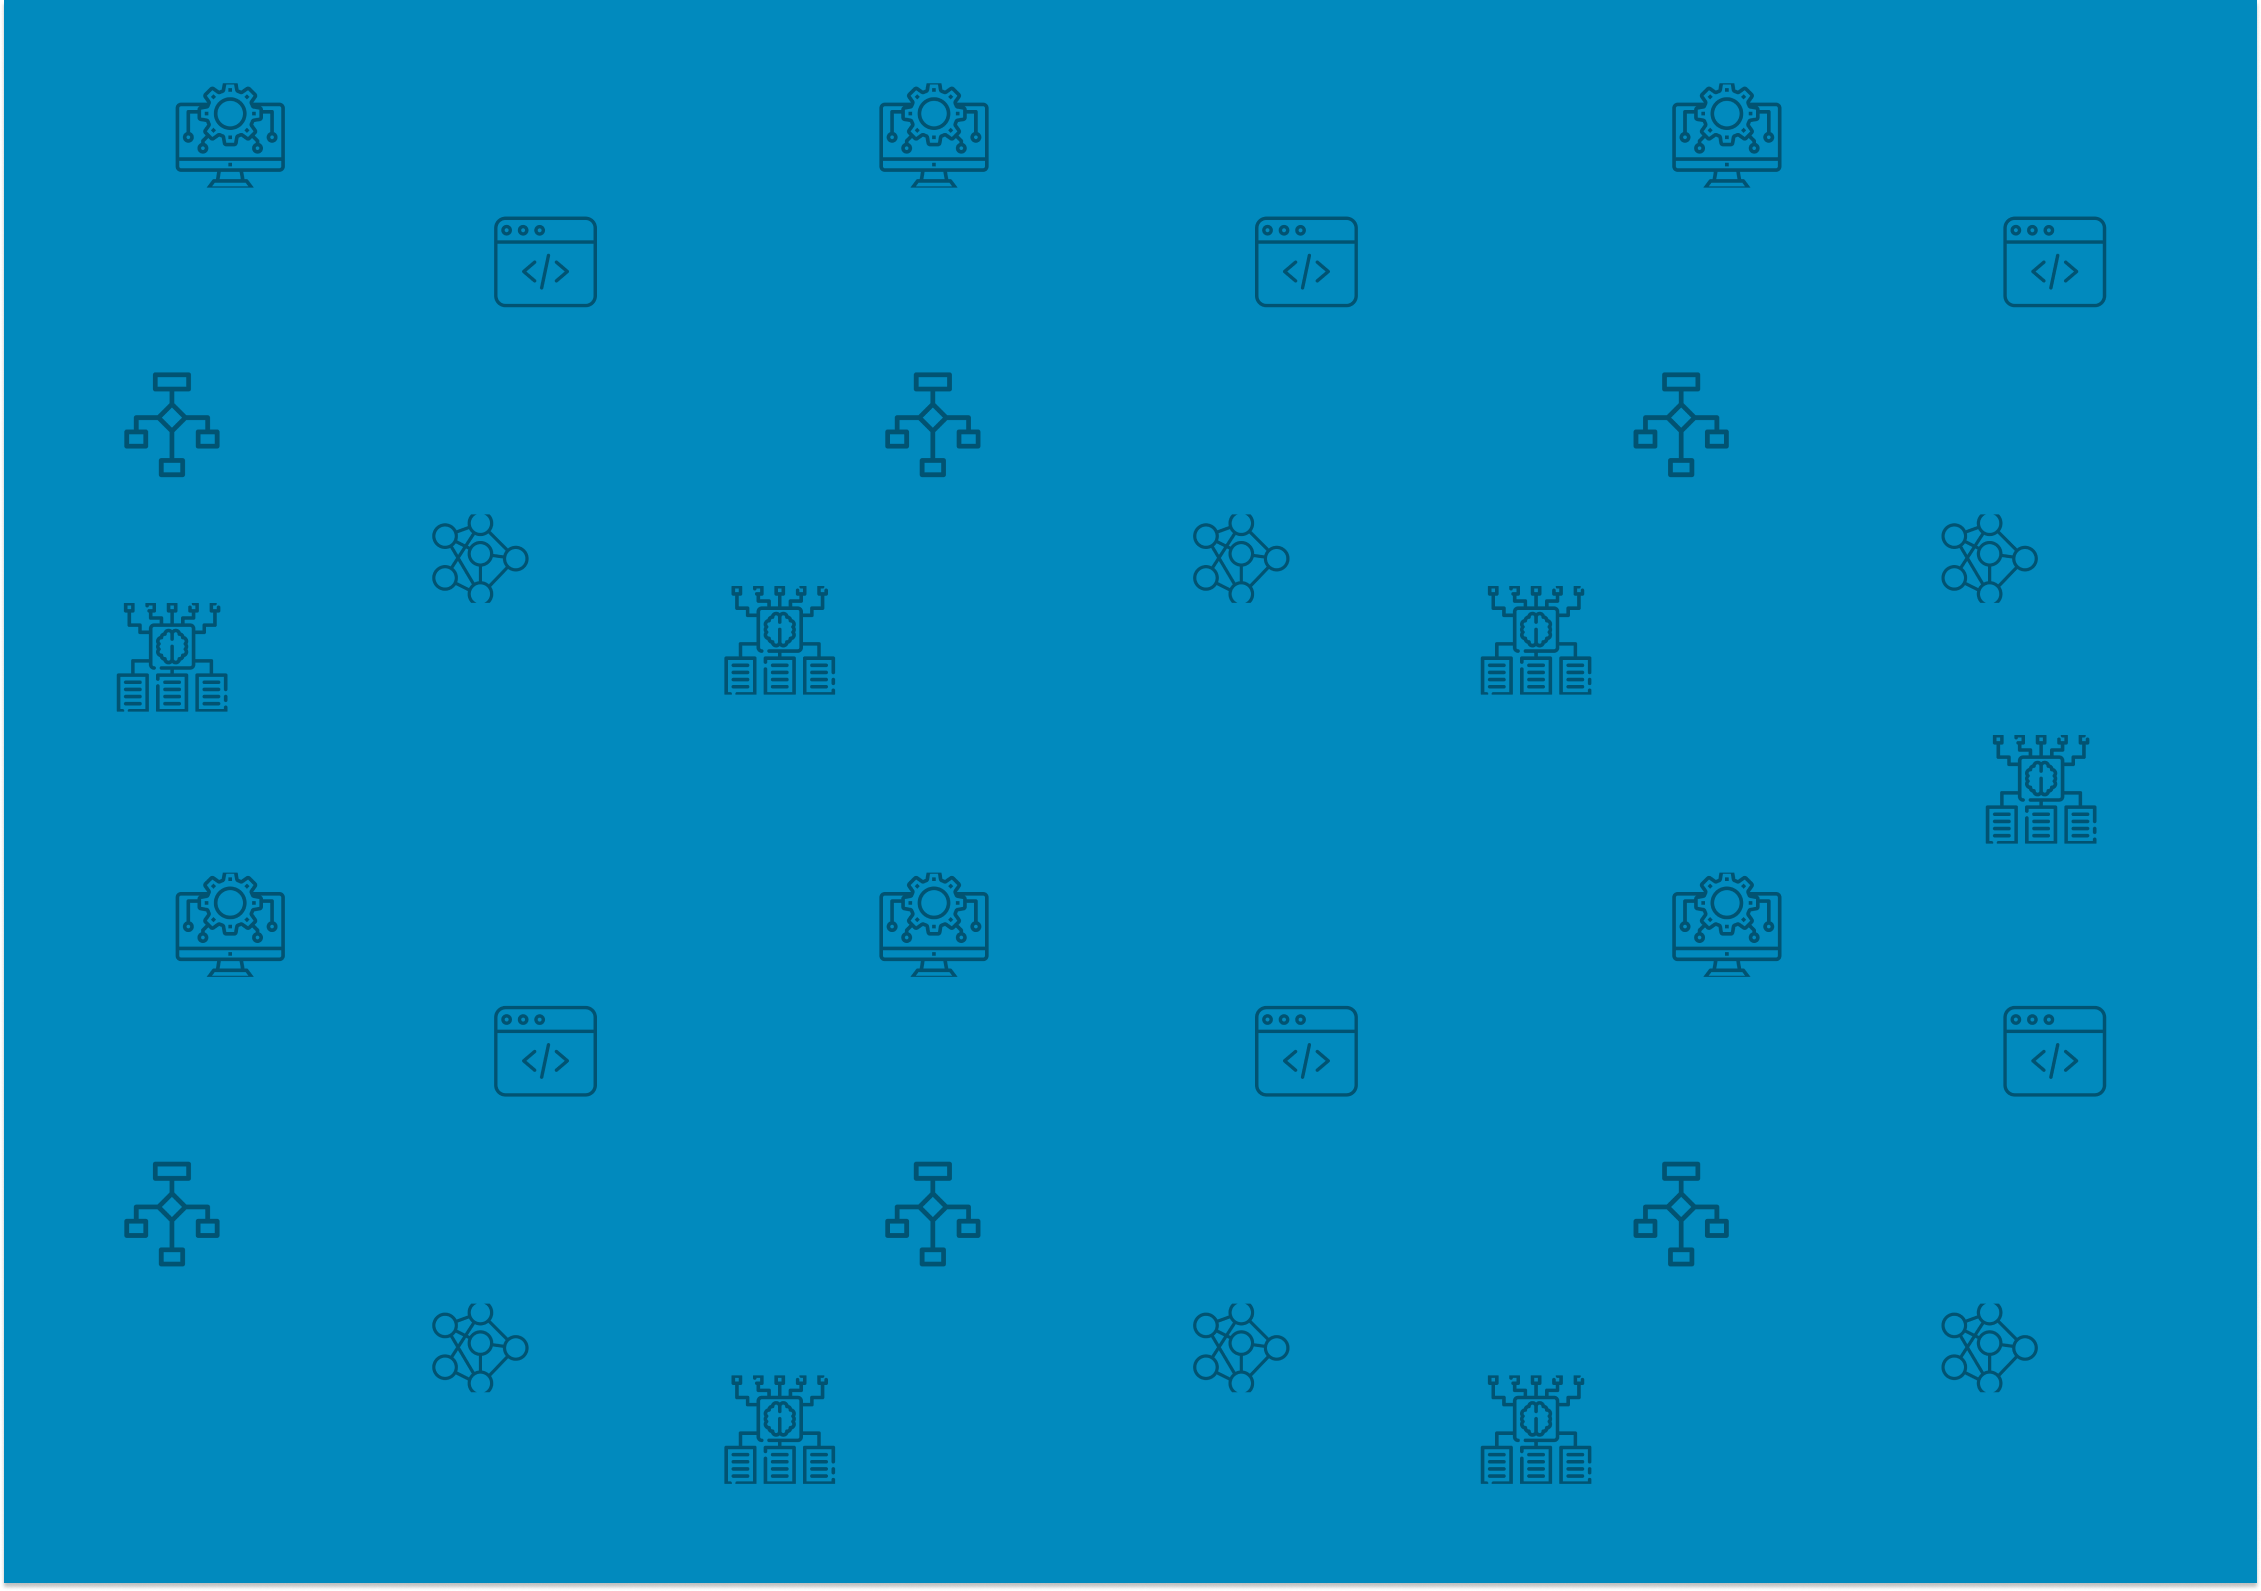
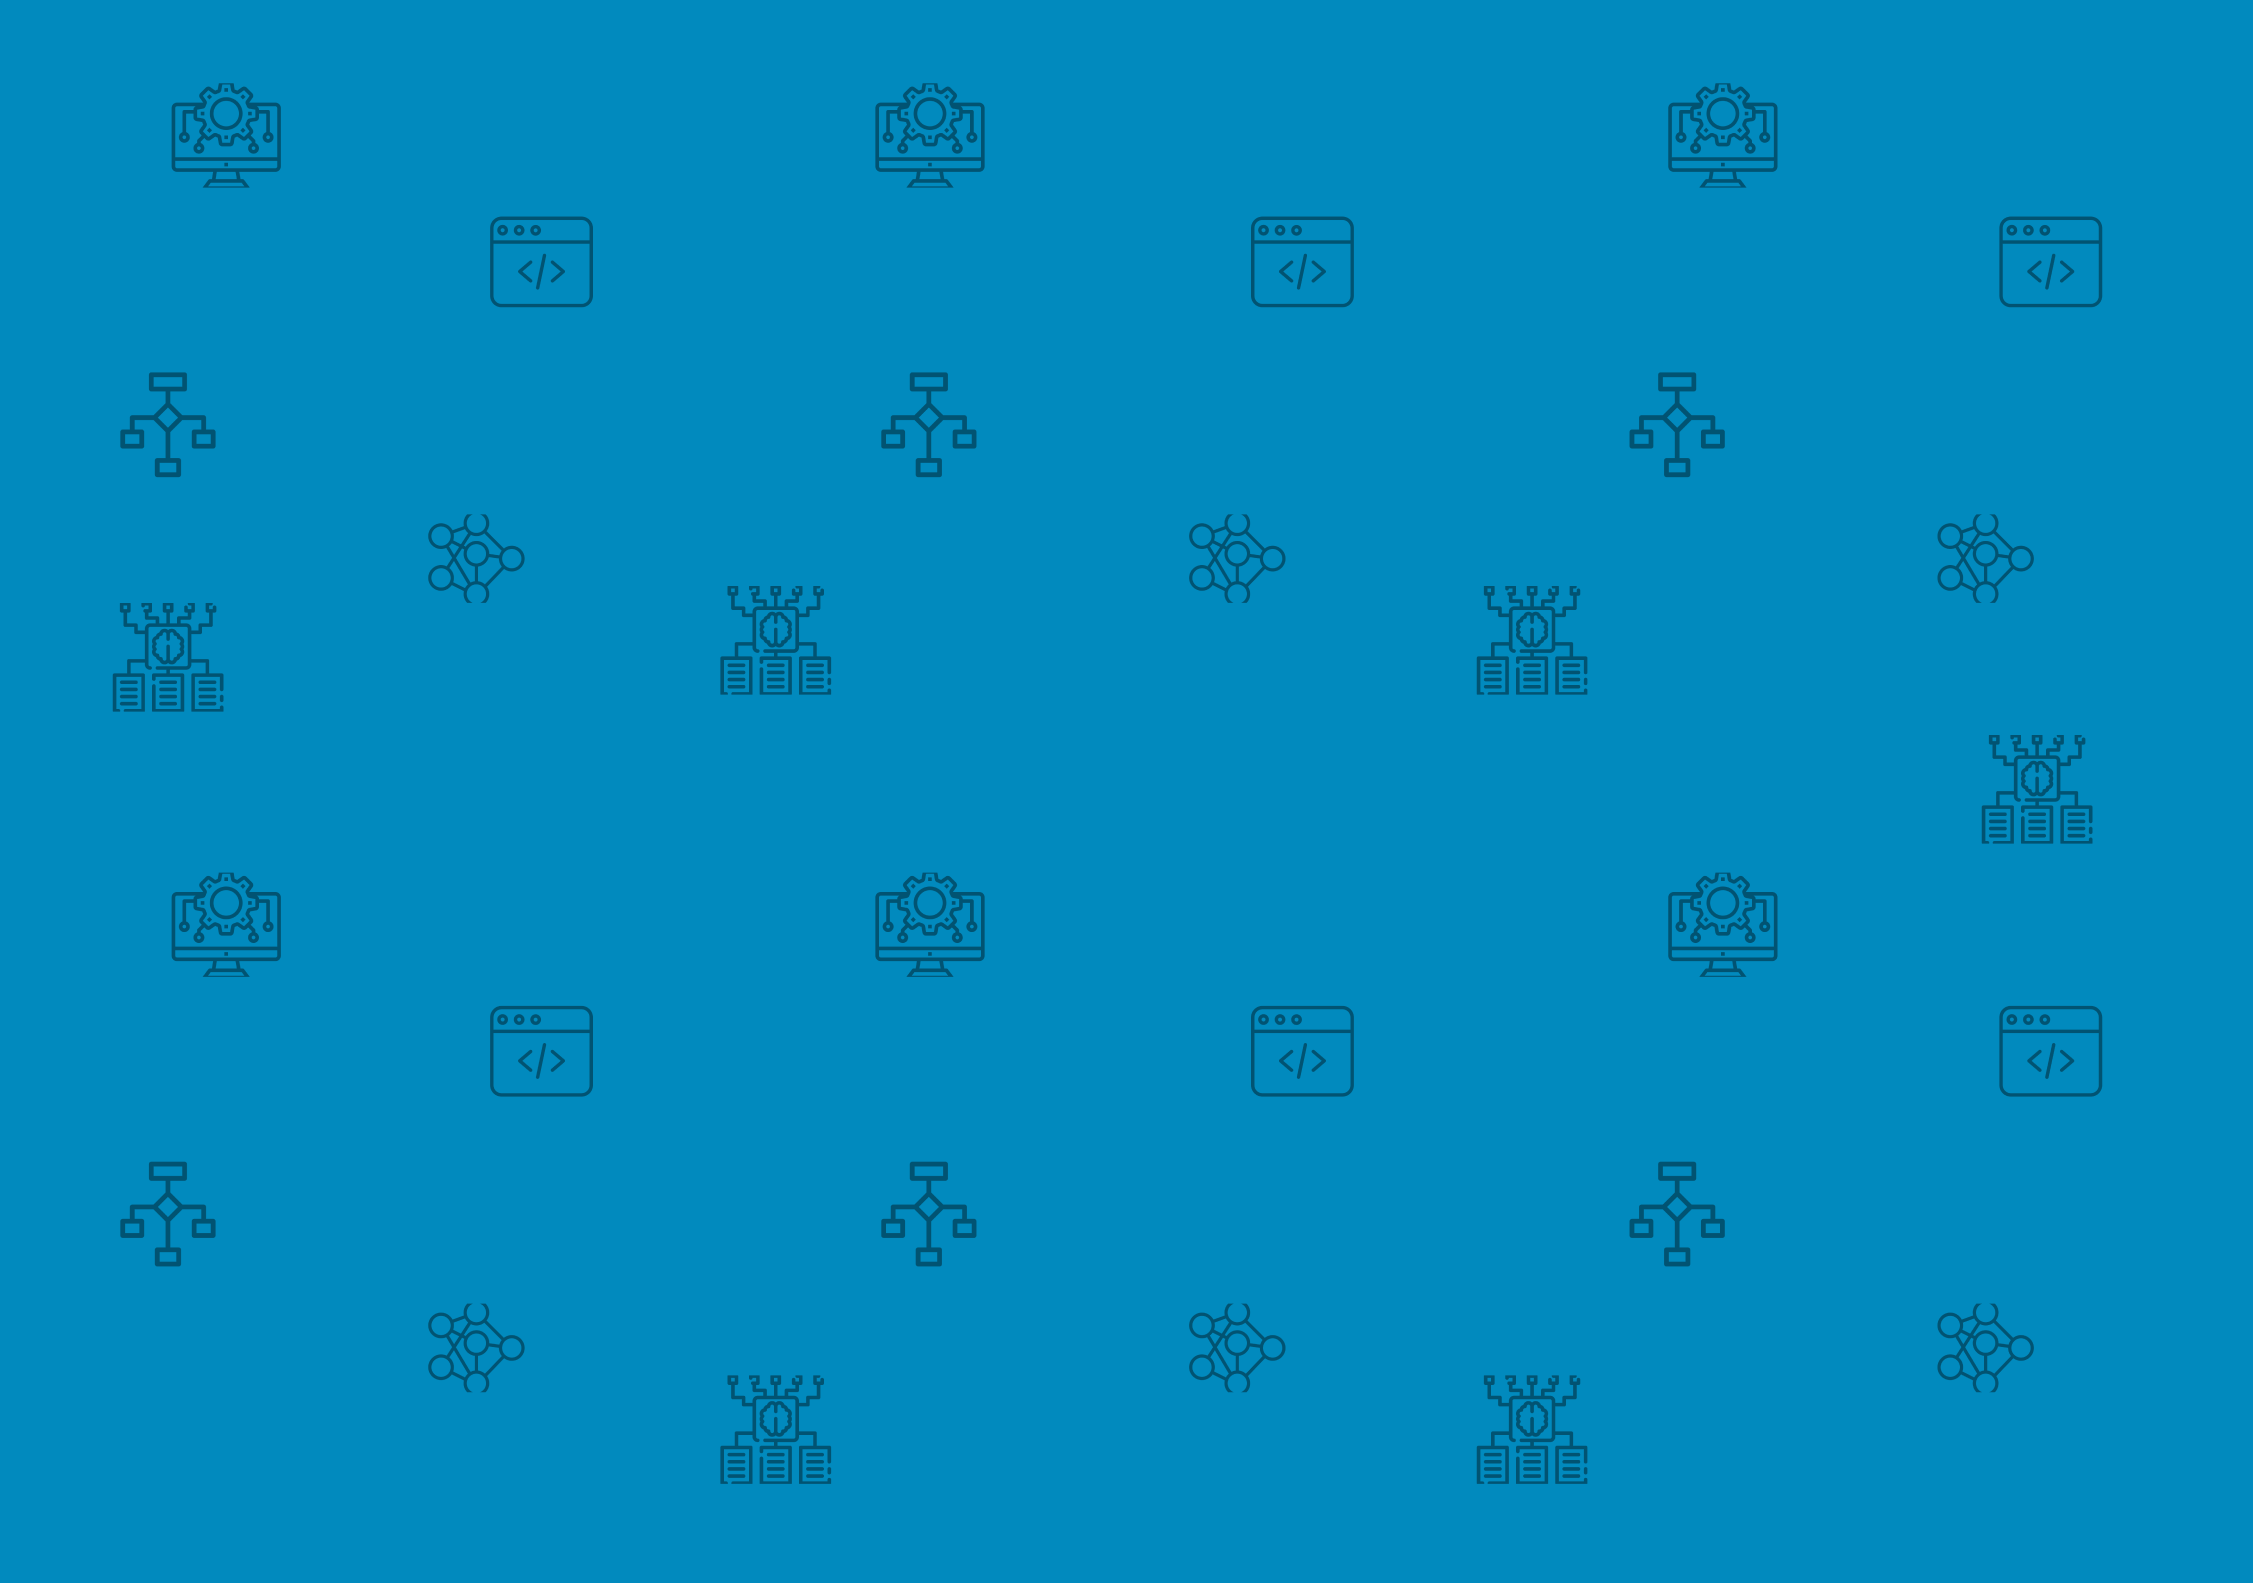
Se redimensiona la imagen de fondo para mejor ajuste

diff --git a/aprendamos-java/src/App.css b/aprendamos-java/src/App.css
@@ -8,7 +8,7 @@
 
 body{
   background-image: url(./assets/Background/Background.png);
-  background-repeat: no-repeat;
+  background-repeat: repeat;
   background-position: center;
   margin: 0;
   font-size: calc(10px + 2vmin);
